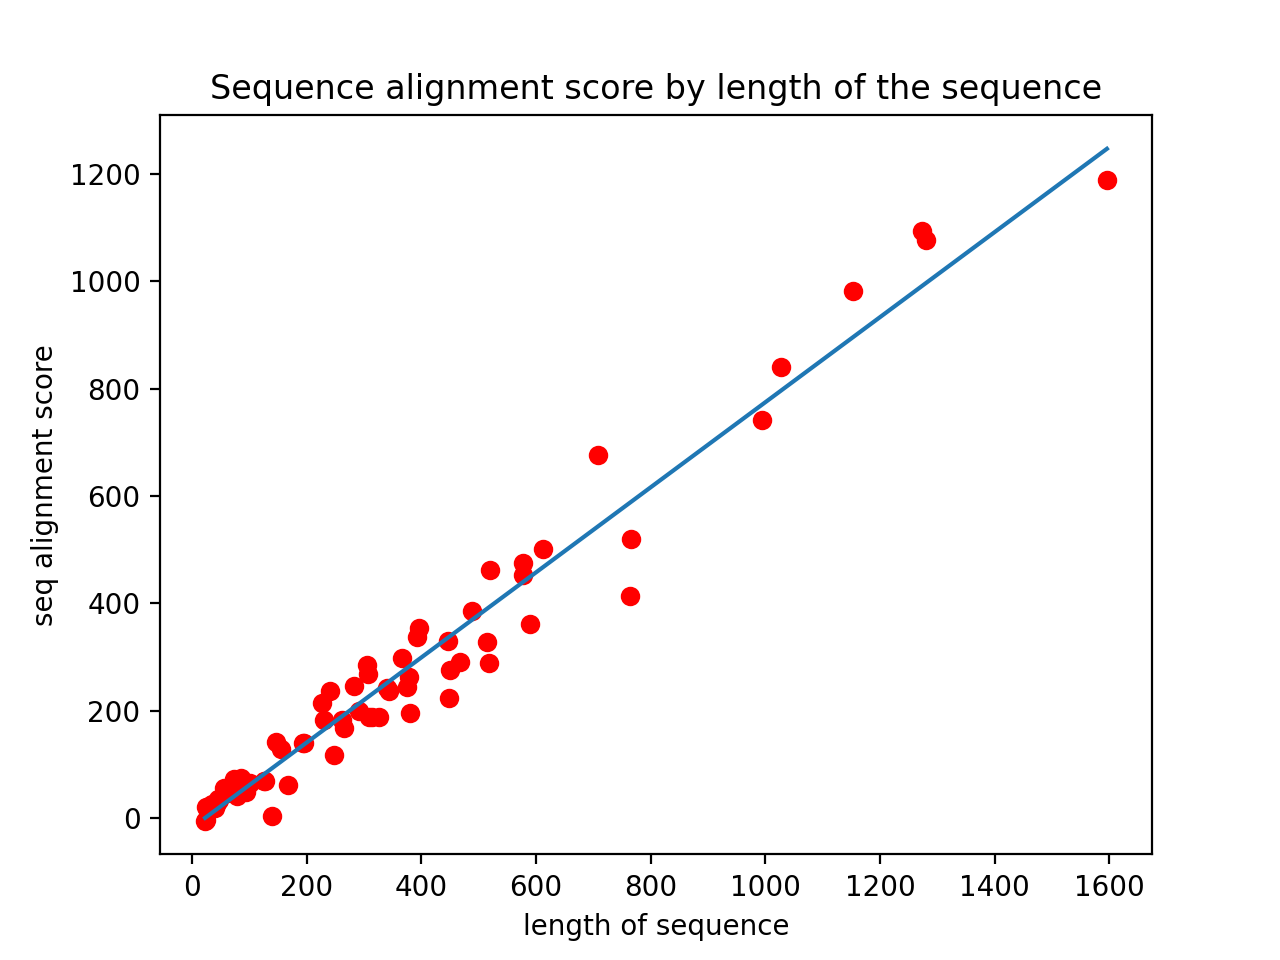
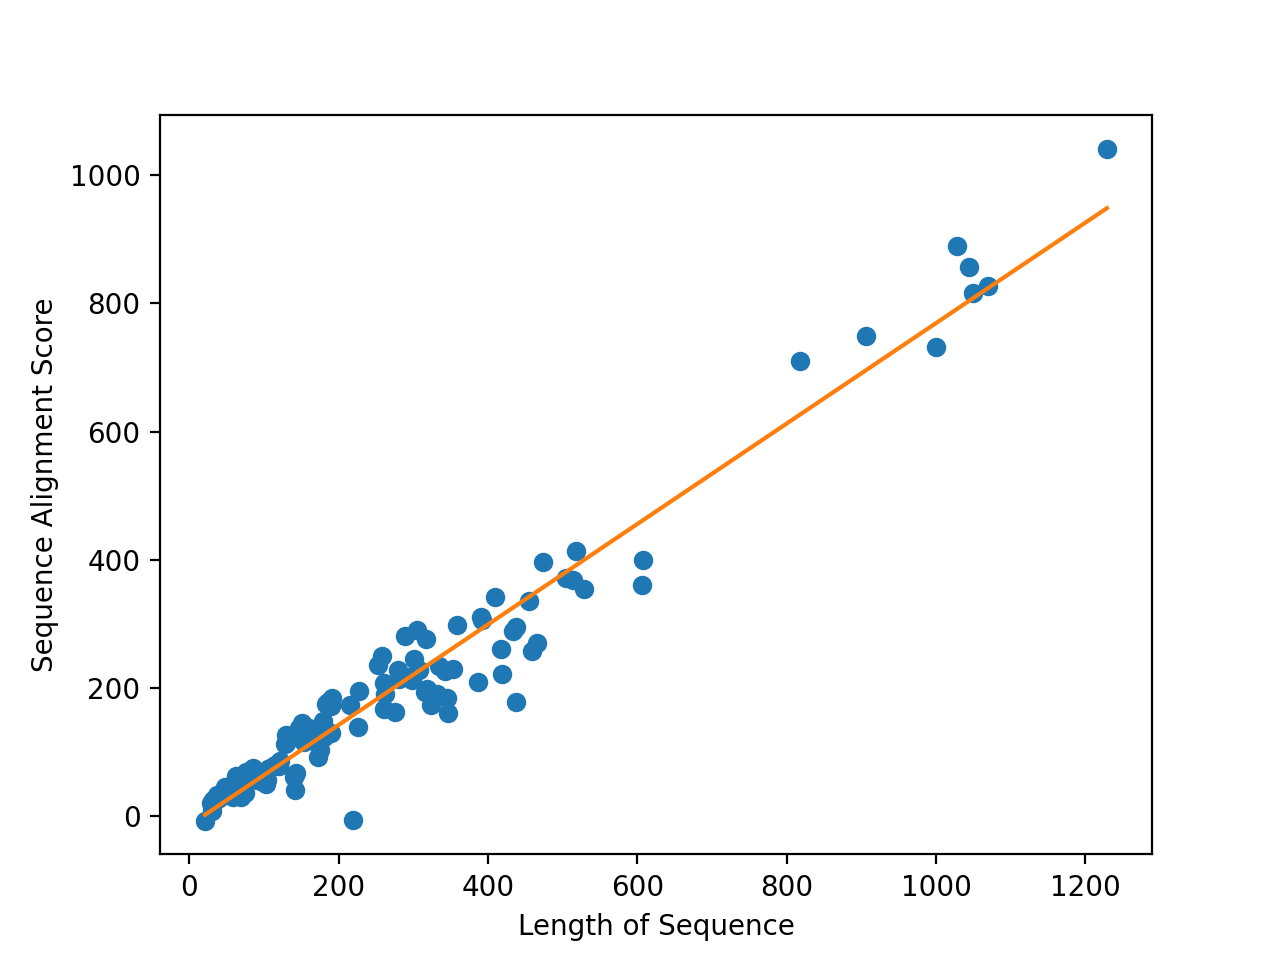
added graphs

diff --git a/seq_alignment_graph.py b/seq_alignment_graph.py
@@ -37,14 +37,14 @@ test_indices = indices[-num_test_samples:]
 
 train_indices= indices[num_test_samples:num_training_samples]
 states = np.array([state.name for state in model.states])
-for index in range(400):
-  print("(\"",end='')
-  print(re.sub('\d', '',
-               ''.join(states[model.predict(observation[test_indices[index]])]).replace('start','').replace('end','').replace('S','').replace('L','')),end='')
-  print("\",\"",end='')
-  print(re.sub('\d', '',
-               ''.join(labels[test_indices[index]]).replace('start','').replace('end','').replace('S','').replace('L','')),end='')
-  print("\"),")
+# for index in range(400):
+#   print("(\"",end='')
+#   print(re.sub('\d', '',
+#                ''.join(states[model.predict(observation[test_indices[index]])]).replace('start','').replace('end','').replace('S','').replace('L','')),end='')
+#   print("\",\"",end='')
+#   print(re.sub('\d', '',
+#                ''.join(labels[test_indices[index]]).replace('start','').replace('end','').replace('S','').replace('L','')),end='')
+#   print("\"),")
 
 
 for index in range(len(test_indices)):
@@ -61,7 +61,7 @@ scores = []
 lengths = []
 
 for l in sorted(length_to_score.keys()):
-    scores.append(sum(length_to_score[l])/len(length_to_score[l])/ l)
+    scores.append(sum(length_to_score[l])/len(length_to_score[l]))
     lengths.append(l)
 lengths= np.array(lengths)
 plt.plot(lengths, scores, 'o')
